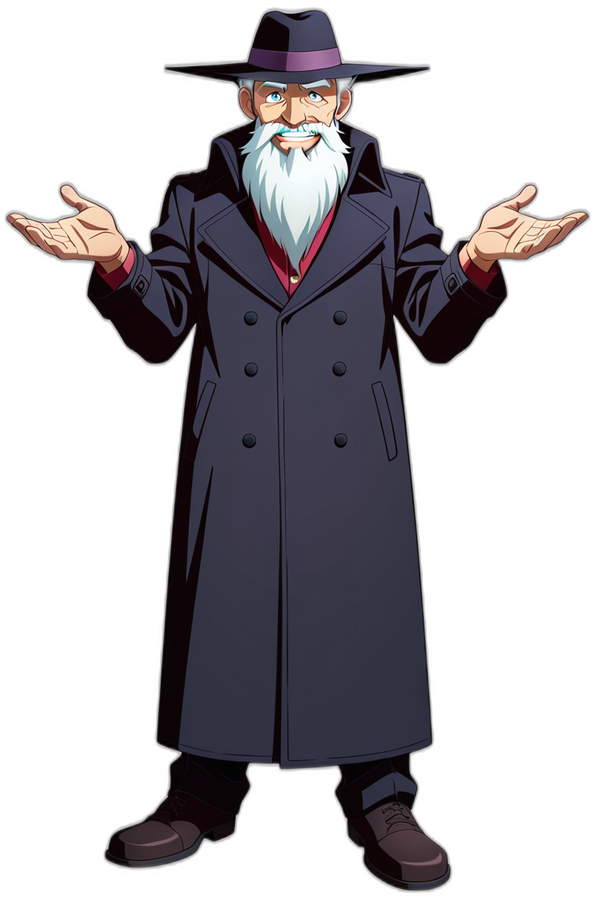
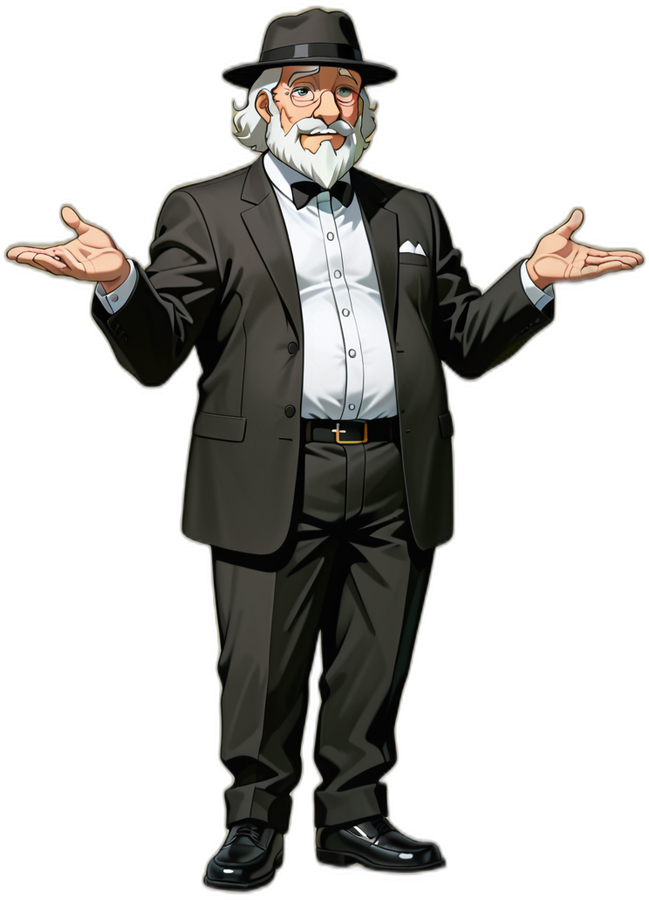
fix

diff --git a/scripts/gen_pointing_chars.py b/scripts/gen_pointing_chars.py
@@ -27,9 +27,11 @@ sys.path.insert(0, REPO)
 
 # "anime" has to be in the prompt for the good anime model to be picked up, and asking for
 # "lineart" (a natural thing to write for cel art) makes it return UNCOLOURED line drawings.
-NEGATIVE = ("text, letters, watermark, signature, blurry, monochrome, greyscale, sketch, lineart, "
+NEGATIVE = ("1girl, 2boys, multiple people, couple, elf, elf ears, dress, "
+            "text, letters, watermark, signature, blurry, monochrome, greyscale, sketch, lineart, "
             "painterly, oil painting, semi realistic, "
-            "extra fingers, deformed hands, malformed limbs, cropped, out of frame, multiple people, "
+            "navy, blue clothes, wizard, sorcerer, robe, cape, long coat, temple interior, scenery, "
+            "extra fingers, deformed hands, malformed limbs, cropped, out of frame, "
             "photo, realistic, 3d render, busy background")
 # Leading with "anime <noun>" and naming the cel shading matters as much as the character name:
 # "Old rabbi ... . Anime." (name-last, the wording that nails Rebecca/Makima) came back as
@@ -43,10 +45,16 @@ CHARACTERS = {
               "straight up, smug knowing smile, vibrant colours, clean anime cel shading, anime key "
               "visual, simple flat white background"),
     # `shrug` is the same renderer (_add_pointing_meme), just a palms-up pose instead of a point.
-    "shrug": ("full body anime rabbi, old man with a long white beard, black wide-brim hat and long "
-              "black coat, shrugging with both palms turned up at his sides, resigned wry smile, "
-              "raised eyebrows, vibrant colours, clean anime cel shading, anime key visual, simple "
-              "flat white background"),
+    # Getting him to read as a RABBI took three rounds. A wide-brim hat + long coat + white beard is
+    # a WIZARD, so: a SUIT, not a coat. "tallit/prayer shawl" and "hasidic" summoned whole wedding
+    # and temple scenes; "payot sidelocks" on its own kept inventing an elf GIRL beside him — this
+    # model reads danbooru tags, so "solo, 1boy" up front (and 1girl in the negative) is what pins
+    # it to one figure. "pure black" matters too: plain "black suit" came back midnight blue.
+    "shrug": ("solo, 1boy, full body anime jewish rabbi, elderly man, long bushy white beard, payot "
+              "sidelocks, black fedora hat, pure black suit jacket and black trousers, crisp white "
+              "dress shirt, shrugging with both palms turned up at his sides, wry resigned smile, "
+              "raised eyebrows, clean anime cel shading, anime key visual, simple flat white "
+              "background"),
 }
 
 
